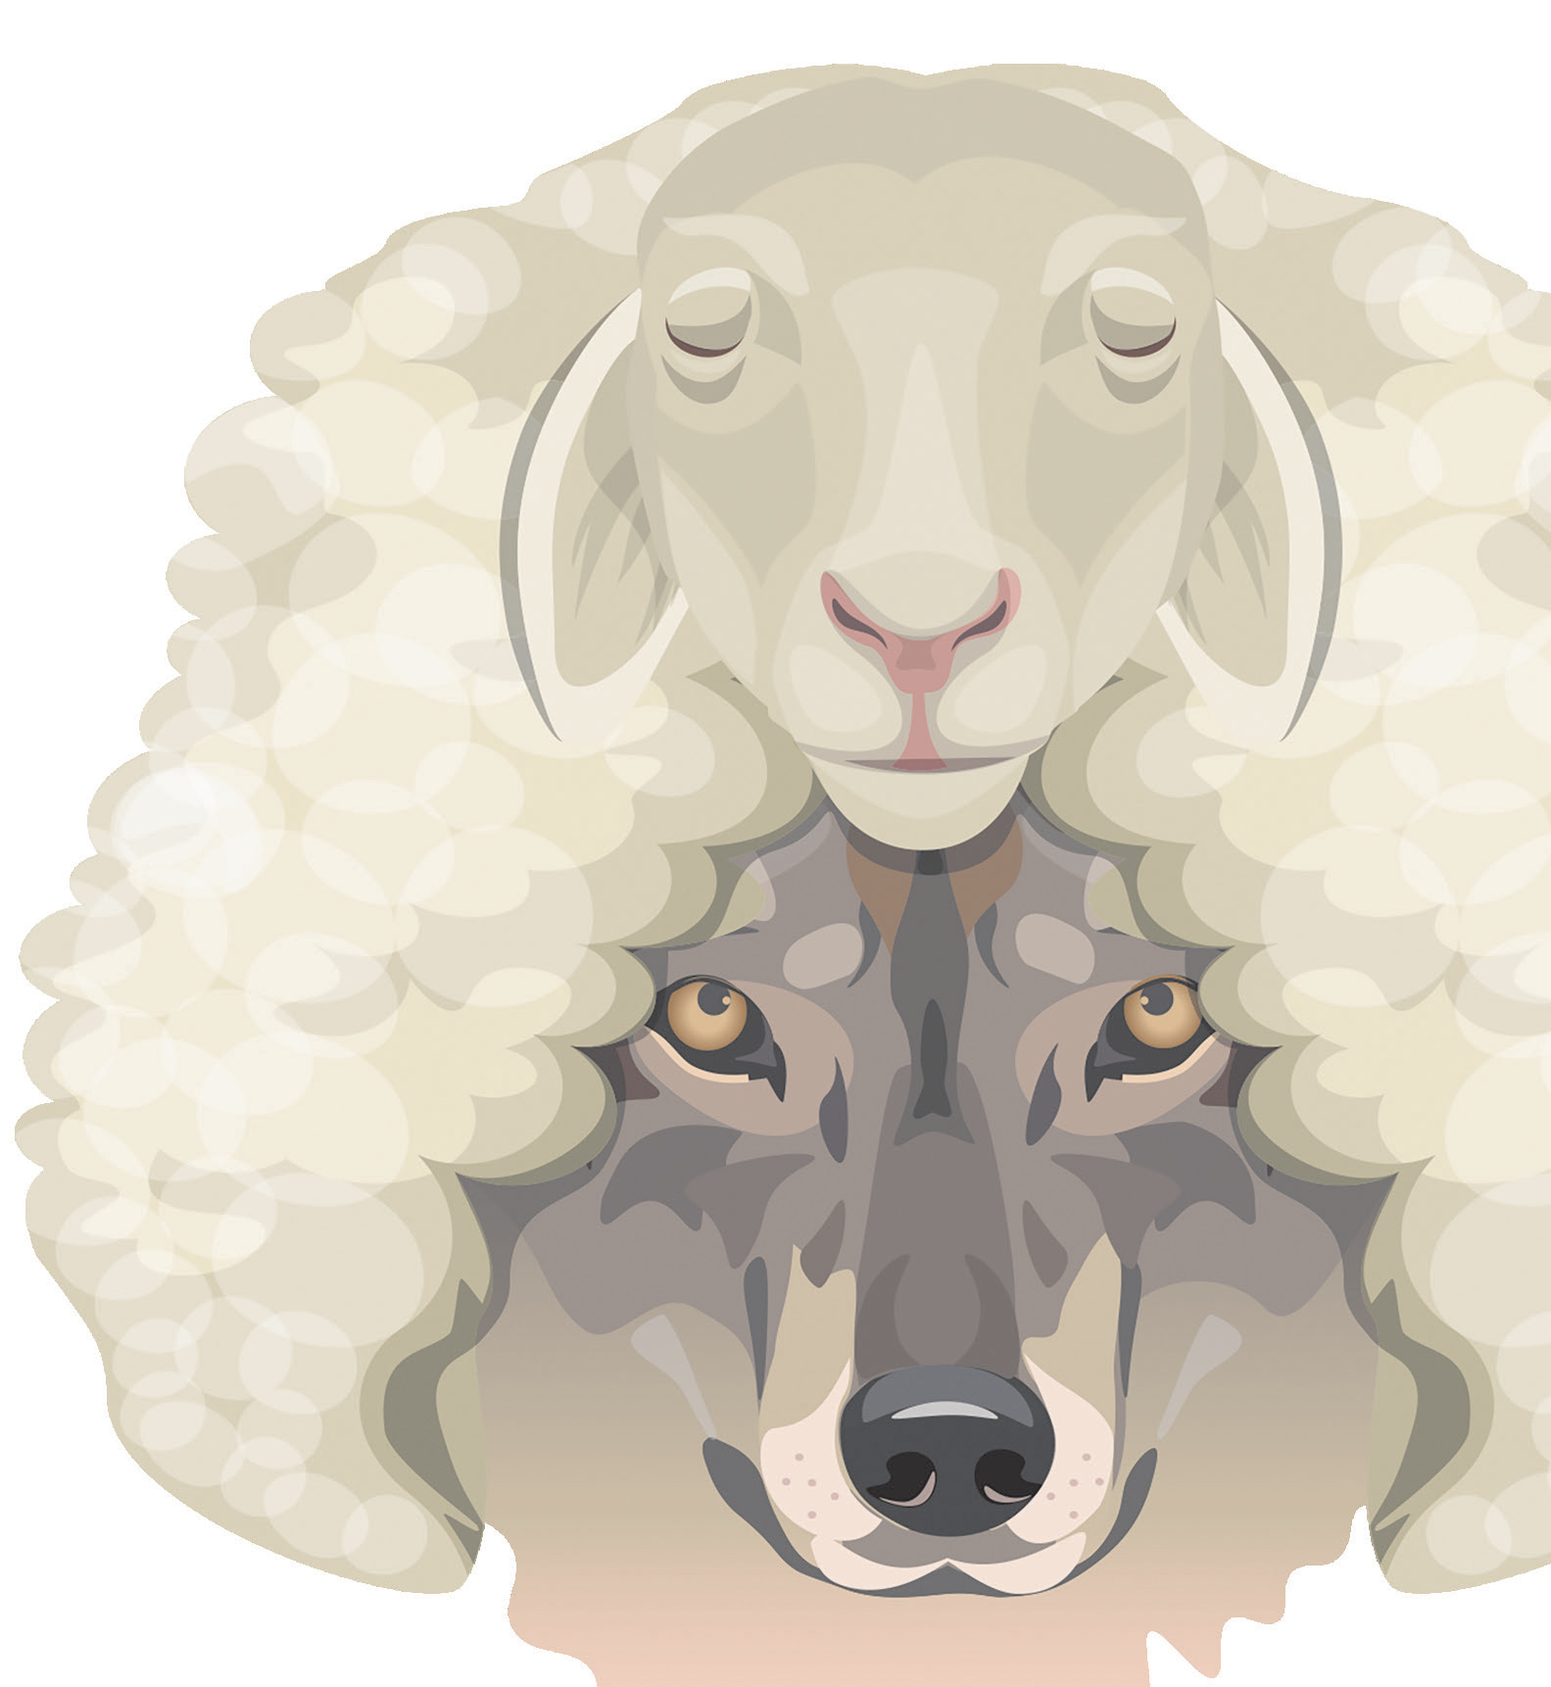
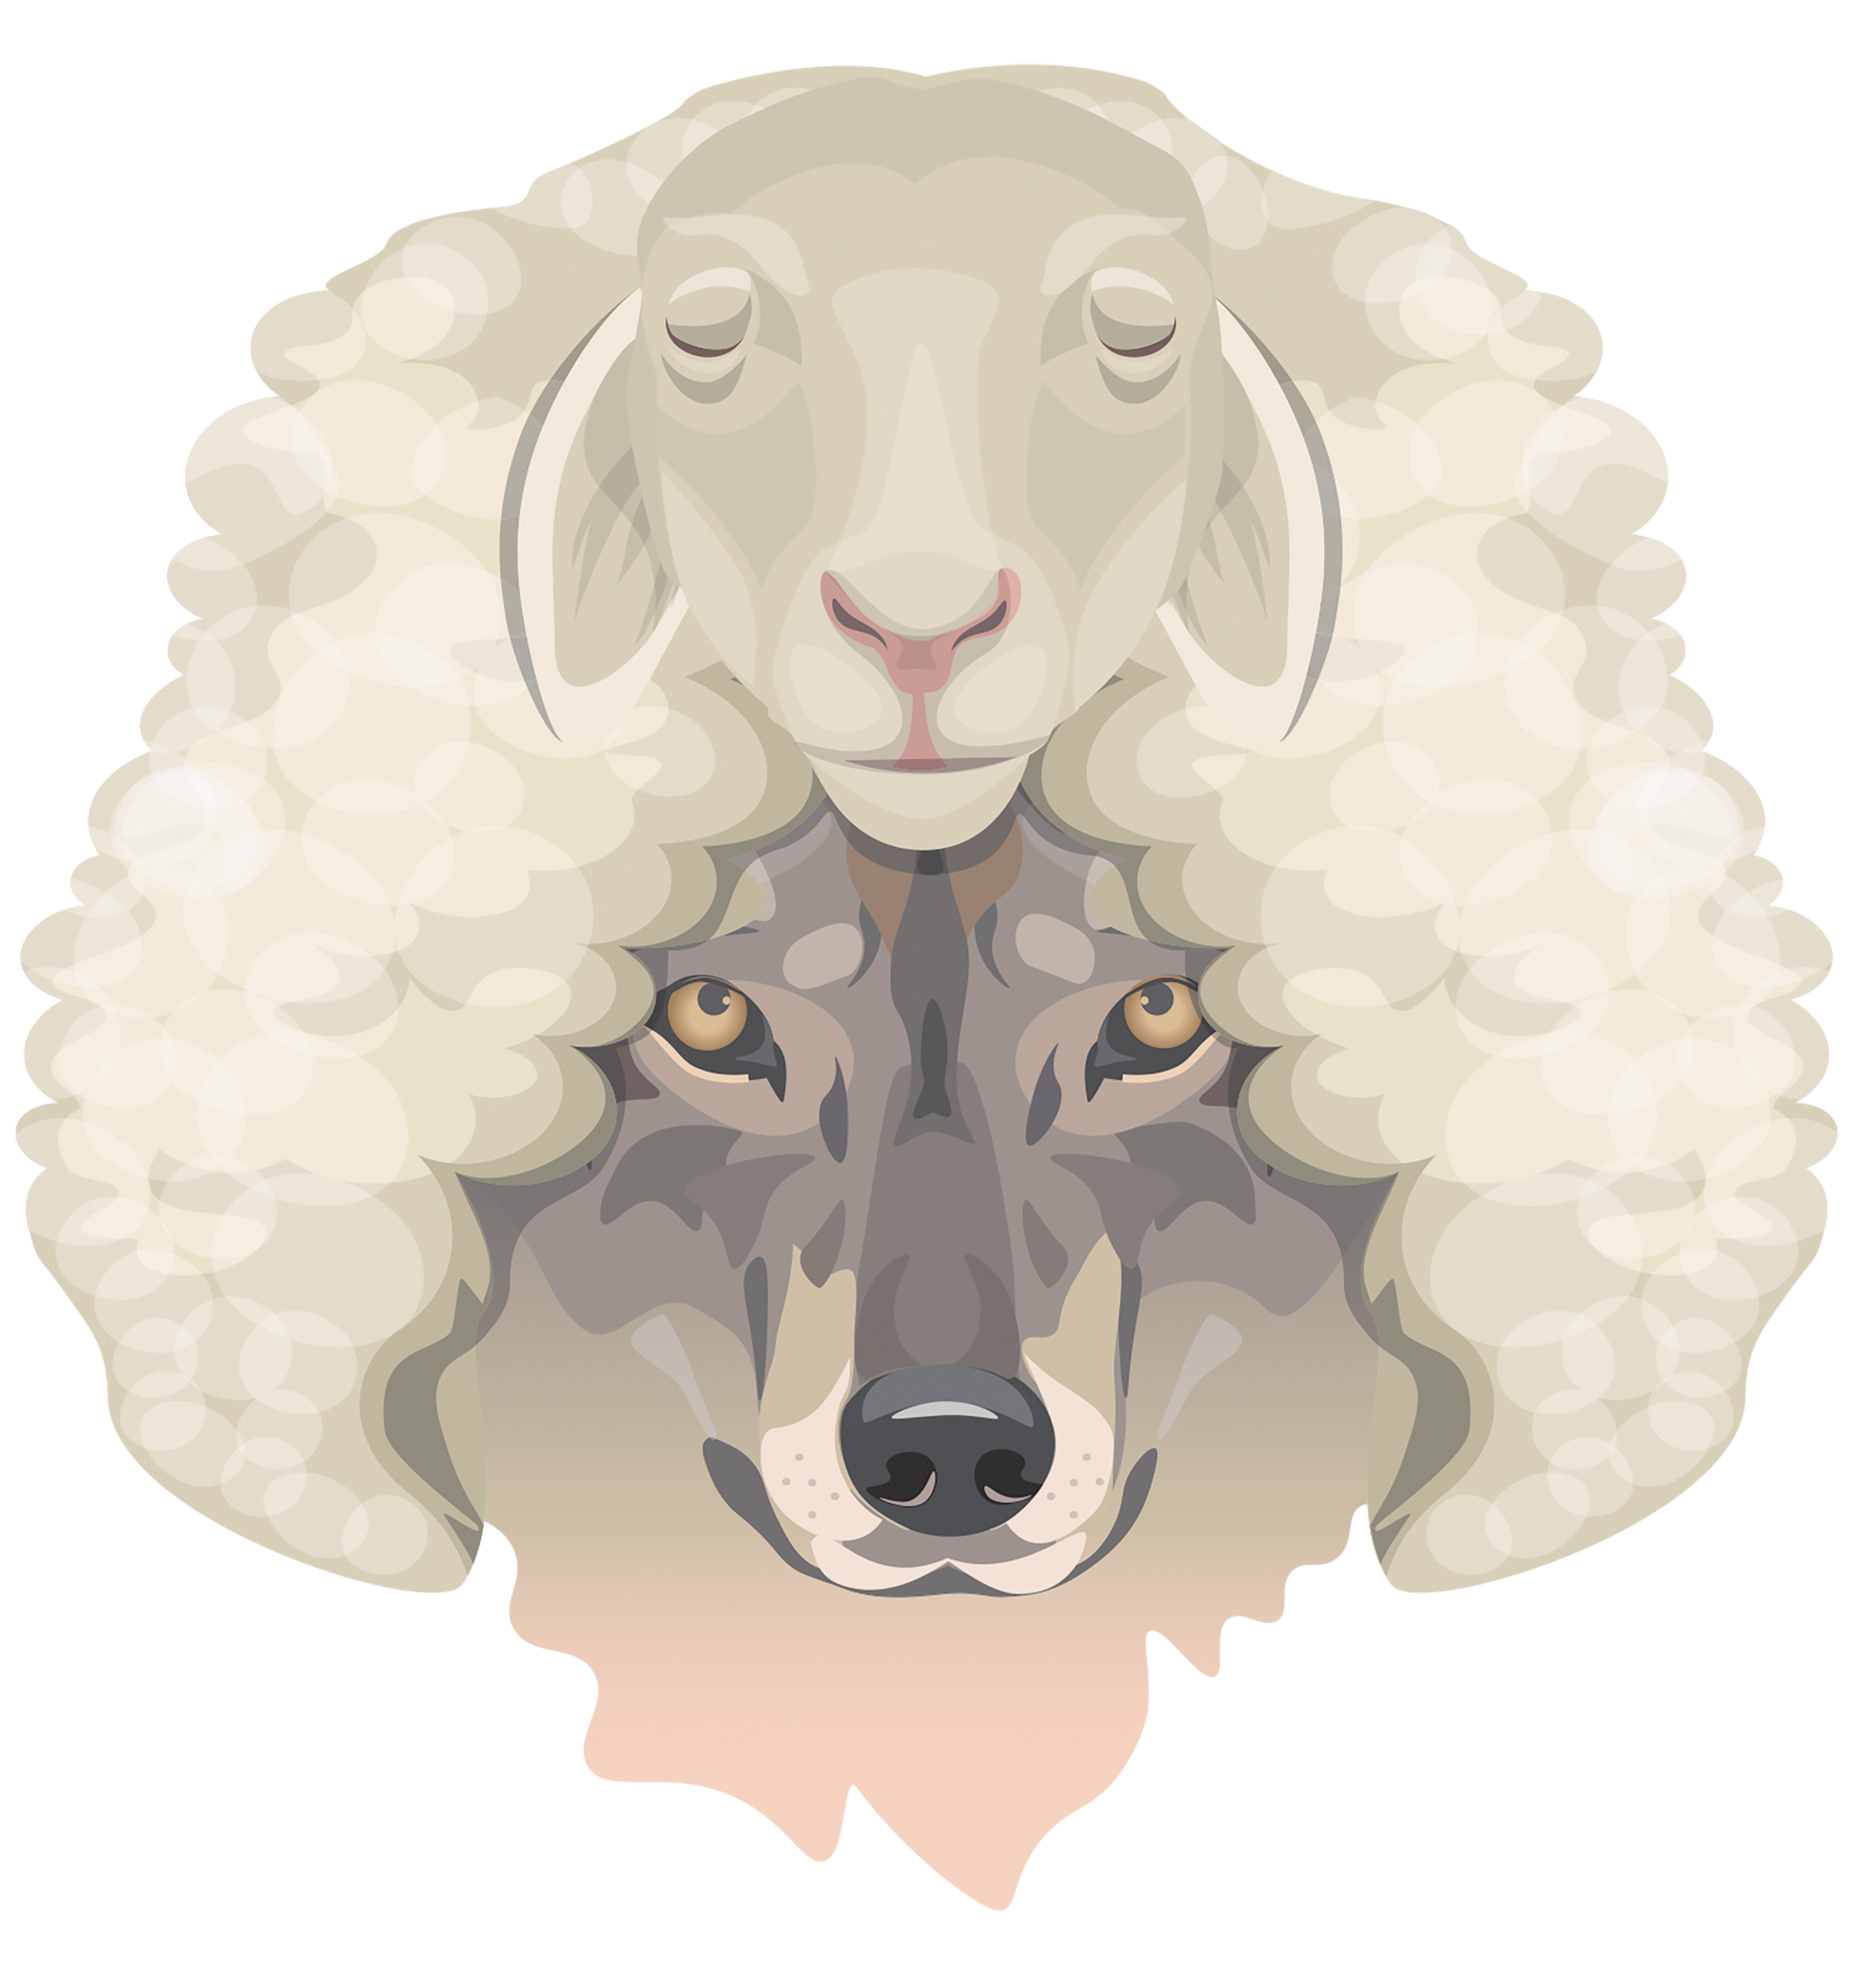
imagem do lobo alterada e alinhada ao centro

diff --git a/src/components/Book.tsx b/src/components/Book.tsx
@@ -1021,8 +1021,8 @@ function Book() {
                 </ul>
                 {/* Imagem */}
                 <div className="flex flex-col items-center my-6">
-                  <img src="images/lobo.png" style={{ width: '75%', marginLeft: '314px' }} />
-                  <p className="text-[10px] text-slate-600 mt-2" style={{ marginLeft: '375px' }} >Hennadii H/Shutterstock
+                  <img src="images/lobo.png" className='max-w-[50%]' />
+                  <p className="text-[10px] text-slate-600 mt-2" >Hennadii H/Shutterstock
                   </p>
                 </div>
                 <Pagination currentPage={18} />
